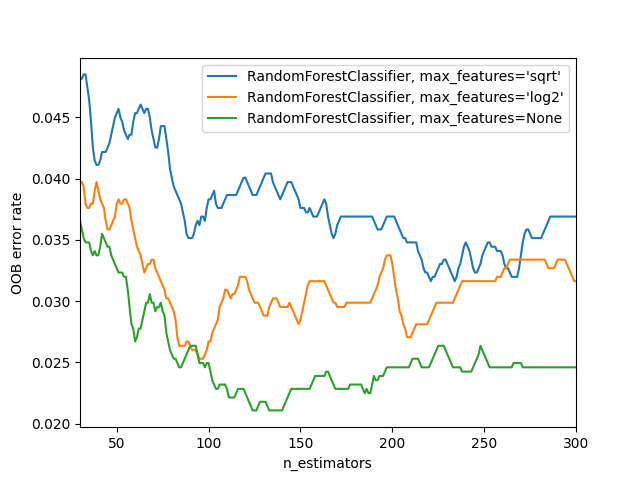
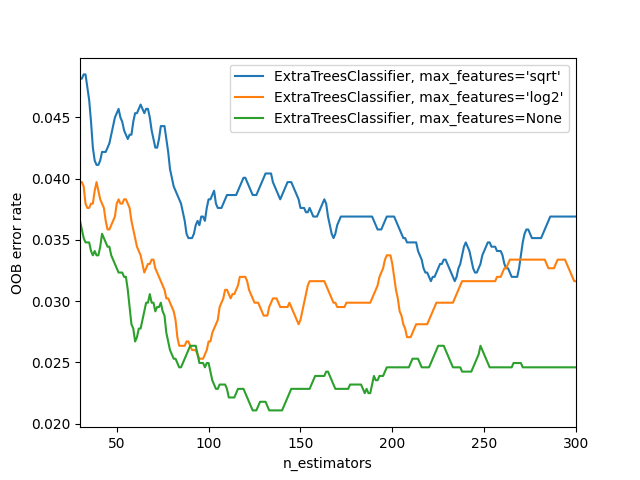
sdfj2

Changed region(s): [[0.3125, 0.125, 0.875, 0.2812]]

diff --git a/09_random_forests/Steinarr9.py b/09_random_forests/Steinarr9.py
@@ -245,7 +245,7 @@ if __name__ == "__main__":
 def _plot_extreme_oob_error(save_as=None, smooth_fun=None):
     RANDOM_STATE = 1337
     ensemble_clfs = [
-        ("RandomForestClassifier, max_features='sqrt'",
+        ("ExtraTreesClassifier, max_features='sqrt'",
             ExtraTreesClassifier(
                 n_estimators=100,
                 warm_start=True,
@@ -253,7 +253,7 @@ def _plot_extreme_oob_error(save_as=None, smooth_fun=None):
                 bootstrap=True,
                 max_features="sqrt",
                 random_state=RANDOM_STATE)),
-        ("RandomForestClassifier, max_features='log2'",
+        ("ExtraTreesClassifier, max_features='log2'",
             ExtraTreesClassifier(
                 n_estimators=100,
                 warm_start=True,
@@ -261,7 +261,7 @@ def _plot_extreme_oob_error(save_as=None, smooth_fun=None):
                 max_features='log2',
                 oob_score=True,
                 random_state=RANDOM_STATE)),
-        ("RandomForestClassifier, max_features=None",
+        ("ExtraTreesClassifier, max_features=None",
             ExtraTreesClassifier(
                 n_estimators=100,
                 warm_start=True,
@@ -322,7 +322,7 @@ if __name__ == "__main__":
           \end[center]
 
 
-          Accuracy was {cc.accuracy():.2%}\% , Precision was {cc.precision():.2%}\% , recall was {cc.recall():.2%}\% and cross validation accuracy was {cc.cross_validation_accuracy():.2%}\% . """.replace('[', '{').replace(']', '}'))
+          Accuracy was {cc.accuracy():.2%} , Precision was {cc.precision():.2%} , recall was {cc.recall():.2%} and cross validation accuracy was {cc.cross_validation_accuracy():.2%} . """.replace('[', '{').replace(']', '}').replace('%', '\%'))
     # cc.feature_importance("09_random_forests/3_1_1.png")
 
     _plot_extreme_oob_error("09_random_forests/3_2_1.png", smooth_fun=smoother)
